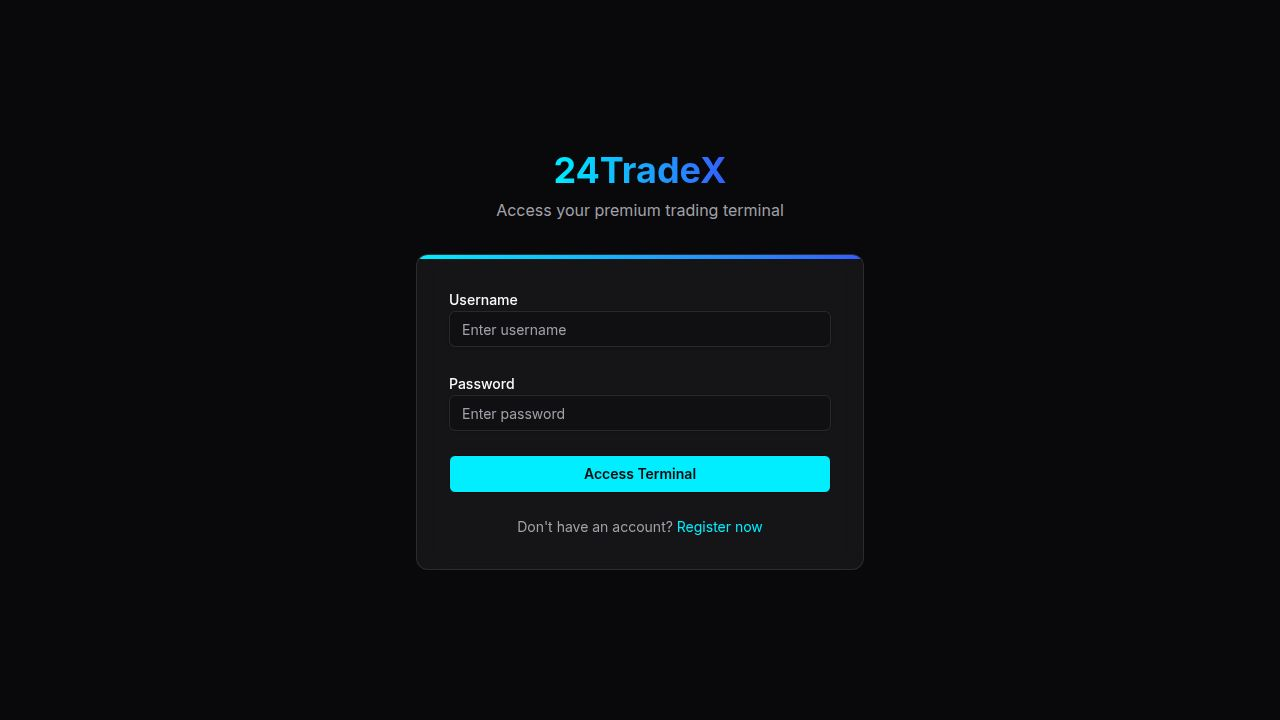
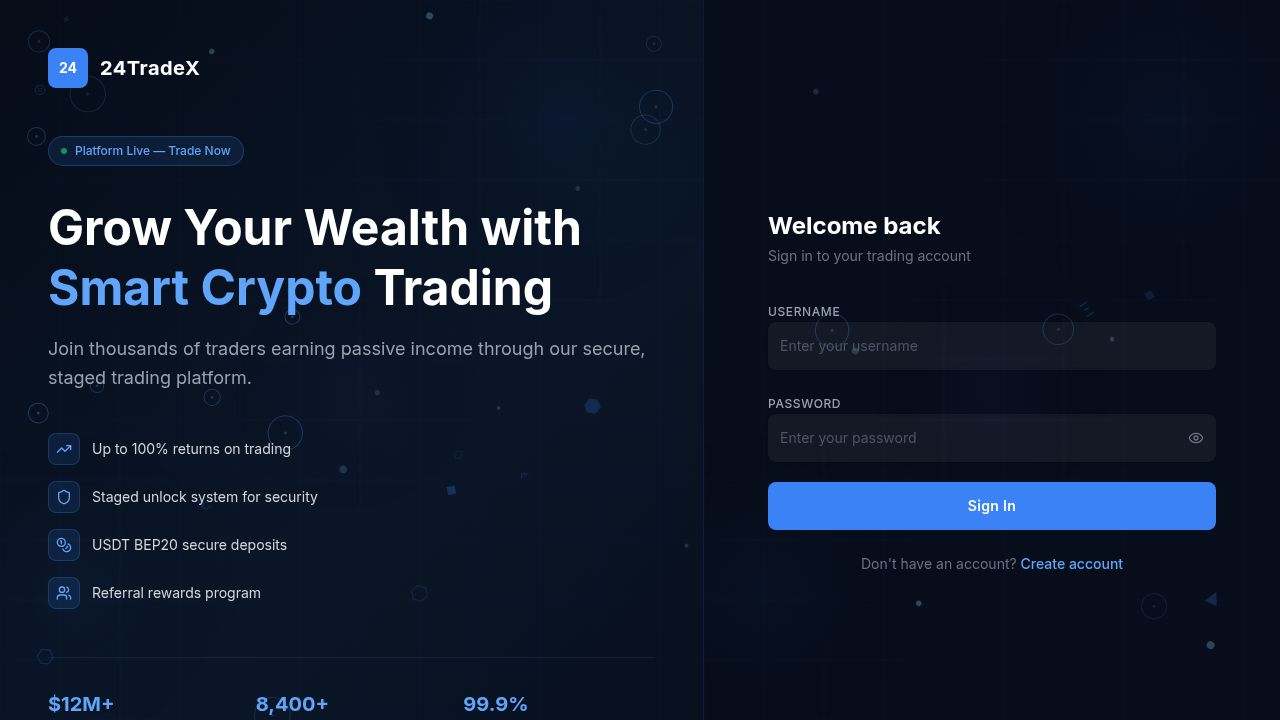
Refine background to use subtle glowing orbs and grid lines
Replace canvas-based particle animation with a pure CSS approach for a more premium look, featuring subtle glowing orbs and preserving the grid pattern.

Replit-Commit-Author: Agent
Replit-Commit-Session-Id: c9e2d08b-34f5-4fda-b5b3-e9f194cbdc65
Replit-Commit-Checkpoint-Type: full_checkpoint
Replit-Commit-Event-Id: 48c87a4d-ff5a-4225-b68d-2c2e8b478609
Replit-Commit-Screenshot-Url: https://storage.googleapis.com/screenshot-production-us-central1/bf96038b-42ef-479b-8ec9-eff6297000e7/c9e2d08b-34f5-4fda-b5b3-e9f194cbdc65/bP2bd0i
Replit-Helium-Checkpoint-Created: true

diff --git a/artifacts/24tradex/src/components/ui/crypto-background.tsx b/artifacts/24tradex/src/components/ui/crypto-background.tsx
@@ -1,192 +1,73 @@
-import { useEffect, useRef } from "react";
-
-const SYMBOLS = ["₿", "Ξ", "◎", "Ł", "✦", "⬡", "◈", "⬢", "▲", "◆"];
-
-interface Particle {
-  x: number;
-  y: number;
-  size: number;
-  speedY: number;
-  speedX: number;
-  opacity: number;
-  fadeSpeed: number;
-  symbol: string;
-  rotation: number;
-  rotSpeed: number;
-  type: "symbol" | "dot" | "ring";
-}
-
-function randomBetween(a: number, b: number) {
-  return a + Math.random() * (b - a);
-}
-
 export function CryptoBackground({ intensity = 1 }: { intensity?: number }) {
-  const canvasRef = useRef<HTMLCanvasElement>(null);
-  const animRef = useRef<number>(0);
-  const particlesRef = useRef<Particle[]>([]);
-
-  useEffect(() => {
-    const canvas = canvasRef.current;
-    if (!canvas) return;
-    const ctx = canvas.getContext("2d");
-    if (!ctx) return;
-
-    let width = 0;
-    let height = 0;
-
-    function resize() {
-      if (!canvas) return;
-      width = canvas.width = canvas.offsetWidth;
-      height = canvas.height = canvas.offsetHeight;
-    }
-
-    function spawnParticle(startY?: number): Particle {
-      const type =
-        Math.random() < 0.35 ? "symbol" : Math.random() < 0.5 ? "dot" : "ring";
-      return {
-        x: randomBetween(0, width),
-        y: startY ?? randomBetween(0, height),
-        size: type === "symbol" ? randomBetween(10, 22) : type === "ring" ? randomBetween(6, 18) : randomBetween(1.5, 4),
-        speedY: -randomBetween(0.15, 0.55),
-        speedX: randomBetween(-0.12, 0.12),
-        opacity: 0,
-        fadeSpeed: randomBetween(0.003, 0.008),
-        symbol: SYMBOLS[Math.floor(Math.random() * SYMBOLS.length)],
-        rotation: randomBetween(0, Math.PI * 2),
-        rotSpeed: randomBetween(-0.005, 0.005),
-        type,
-      };
-    }
-
-    function initParticles() {
-      const count = Math.floor(28 * intensity);
-      particlesRef.current = Array.from({ length: count }, () => spawnParticle());
-    }
-
-    function drawGrid(ctx: CanvasRenderingContext2D) {
-      ctx.save();
-      ctx.strokeStyle = "rgba(59,130,246,0.035)";
-      ctx.lineWidth = 1;
-      const spacing = 60;
-      for (let x = 0; x <= width; x += spacing) {
-        ctx.beginPath();
-        ctx.moveTo(x, 0);
-        ctx.lineTo(x, height);
-        ctx.stroke();
-      }
-      for (let y = 0; y <= height; y += spacing) {
-        ctx.beginPath();
-        ctx.moveTo(0, y);
-        ctx.lineTo(width, y);
-        ctx.stroke();
-      }
-      ctx.restore();
-    }
-
-    function drawOrbs(ctx: CanvasRenderingContext2D, t: number) {
-      const orbs = [
-        { x: width * 0.8, y: height * 0.15, r: 200, c: "rgba(37,99,235,0.055)" },
-        { x: width * 0.1, y: height * 0.75, r: 160, c: "rgba(59,130,246,0.045)" },
-        { x: width * 0.5, y: height * 0.5, r: 120, c: "rgba(99,102,241,0.03)" },
-      ];
-      for (const orb of orbs) {
-        const pulse = 1 + 0.04 * Math.sin(t / 2800 + orb.x);
-        const grad = ctx.createRadialGradient(orb.x, orb.y, 0, orb.x, orb.y, orb.r * pulse);
-        grad.addColorStop(0, orb.c);
-        grad.addColorStop(1, "transparent");
-        ctx.beginPath();
-        ctx.arc(orb.x, orb.y, orb.r * pulse, 0, Math.PI * 2);
-        ctx.fillStyle = grad;
-        ctx.fill();
-      }
-    }
-
-    let peakOpacity: Record<number, number> = {};
-
-    function tick(t: number) {
-      ctx.clearRect(0, 0, width, height);
-
-      drawGrid(ctx);
-      drawOrbs(ctx, t);
-
-      particlesRef.current.forEach((p, i) => {
-        // Fade in, then hover near peak, then fade out
-        if (!peakOpacity[i]) peakOpacity[i] = randomBetween(0.12, 0.35);
-        const peak = peakOpacity[i];
-
-        if (p.opacity < peak) {
-          p.opacity = Math.min(peak, p.opacity + p.fadeSpeed);
-        } else {
-          p.opacity += p.fadeSpeed * 0.4;
-        }
-
-        p.x += p.speedX;
-        p.y += p.speedY;
-        p.rotation += p.rotSpeed;
-
-        if (p.y < -40 || p.opacity >= peak * 1.8) {
-          particlesRef.current[i] = spawnParticle(height + 20);
-          peakOpacity[i] = randomBetween(0.12, 0.35);
-          return;
-        }
-
-        ctx.save();
-        ctx.globalAlpha = Math.min(p.opacity, 0.45);
-        ctx.translate(p.x, p.y);
-        ctx.rotate(p.rotation);
-
-        if (p.type === "symbol") {
-          ctx.font = `${p.size}px monospace`;
-          ctx.fillStyle = "#3b82f6";
-          ctx.textAlign = "center";
-          ctx.textBaseline = "middle";
-          ctx.fillText(p.symbol, 0, 0);
-        } else if (p.type === "ring") {
-          ctx.strokeStyle = "#60a5fa";
-          ctx.lineWidth = 1;
-          ctx.beginPath();
-          ctx.arc(0, 0, p.size, 0, Math.PI * 2);
-          ctx.stroke();
-          // inner dot
-          ctx.fillStyle = "#60a5fa";
-          ctx.beginPath();
-          ctx.arc(0, 0, 1.5, 0, Math.PI * 2);
-          ctx.fill();
-        } else {
-          ctx.fillStyle = "#93c5fd";
-          ctx.beginPath();
-          ctx.arc(0, 0, p.size, 0, Math.PI * 2);
-          ctx.fill();
-        }
-
-        ctx.restore();
-      });
-
-      animRef.current = requestAnimationFrame(tick);
-    }
-
-    resize();
-    initParticles();
-    animRef.current = requestAnimationFrame(tick);
-
-    const ro = new ResizeObserver(() => {
-      resize();
-      initParticles();
-      peakOpacity = {};
-    });
-    ro.observe(canvas);
-
-    return () => {
-      cancelAnimationFrame(animRef.current);
-      ro.disconnect();
-    };
-  }, [intensity]);
+  const opacity = Math.min(1, intensity);
 
   return (
-    <canvas
-      ref={canvasRef}
-      className="absolute inset-0 w-full h-full pointer-events-none"
-      style={{ zIndex: 0 }}
-    />
+    <div className="absolute inset-0 overflow-hidden pointer-events-none" style={{ zIndex: 0 }}>
+      {/* Grid lines */}
+      <div
+        className="absolute inset-0"
+        style={{
+          backgroundImage: `linear-gradient(rgba(59,130,246,${0.04 * opacity}) 1px, transparent 1px),
+                            linear-gradient(90deg, rgba(59,130,246,${0.04 * opacity}) 1px, transparent 1px)`,
+          backgroundSize: "60px 60px",
+        }}
+      />
+
+      {/* Glowing orbs — pure CSS, no JS animation loop */}
+      <div
+        className="absolute rounded-full"
+        style={{
+          width: "600px",
+          height: "600px",
+          top: "-100px",
+          right: "5%",
+          background: `radial-gradient(circle, rgba(37,99,235,${0.09 * opacity}) 0%, transparent 70%)`,
+          filter: "blur(40px)",
+          animation: "orb-pulse1 8s ease-in-out infinite",
+        }}
+      />
+      <div
+        className="absolute rounded-full"
+        style={{
+          width: "500px",
+          height: "500px",
+          bottom: "-80px",
+          left: "5%",
+          background: `radial-gradient(circle, rgba(59,130,246,${0.07 * opacity}) 0%, transparent 70%)`,
+          filter: "blur(40px)",
+          animation: "orb-pulse2 11s ease-in-out infinite",
+        }}
+      />
+      <div
+        className="absolute rounded-full"
+        style={{
+          width: "350px",
+          height: "350px",
+          top: "40%",
+          left: "45%",
+          background: `radial-gradient(circle, rgba(99,102,241,${0.05 * opacity}) 0%, transparent 70%)`,
+          filter: "blur(30px)",
+          animation: "orb-pulse3 14s ease-in-out infinite",
+        }}
+      />
+
+      {/* Keyframes injected inline */}
+      <style>{`
+        @keyframes orb-pulse1 {
+          0%, 100% { transform: scale(1) translate(0, 0); opacity: 0.8; }
+          33%       { transform: scale(1.12) translate(-20px, 30px); opacity: 1; }
+          66%       { transform: scale(0.92) translate(15px, -20px); opacity: 0.7; }
+        }
+        @keyframes orb-pulse2 {
+          0%, 100% { transform: scale(1) translate(0, 0); opacity: 0.75; }
+          40%       { transform: scale(1.1) translate(25px, -15px); opacity: 1; }
+          70%       { transform: scale(0.9) translate(-10px, 25px); opacity: 0.6; }
+        }
+        @keyframes orb-pulse3 {
+          0%, 100% { transform: scale(1) translate(0, 0); opacity: 0.6; }
+          50%       { transform: scale(1.2) translate(-15px, -20px); opacity: 0.9; }
+        }
+      `}</style>
+    </div>
   );
 }